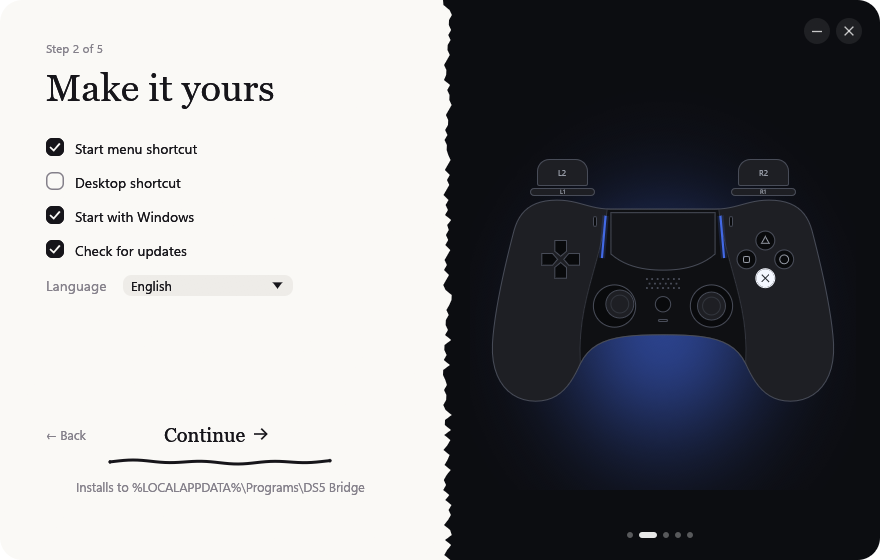
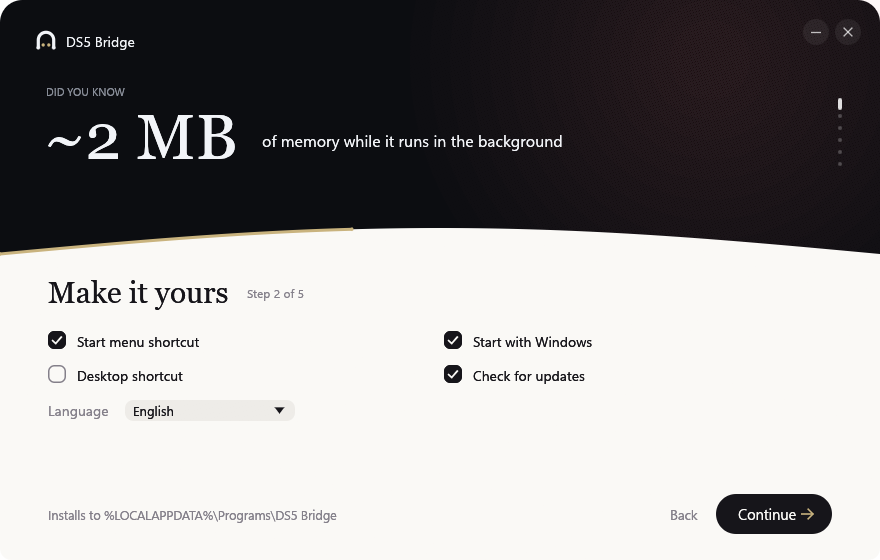
Installer redesign: fact slides on a dark stage, arched sheet with step progress

diff --git a/src/gui.rs b/src/gui.rs
@@ -1148,8 +1148,7 @@ impl App {
 
 // ------------------------------------------------------------ installer ---
 //
-// A two-part card like a printed page: big serif title, the step's content and exactly one action
-// on the left; the controller on its blue halo on the right; a torn paper edge in between.
+// Dark stage with facts about the app on top, a light sheet with an arched top edge below.
 
 const PAPER: Color32 = Color32::from_rgb(250, 249, 246);
 const PAPER_INK: Color32 = Color32::from_rgb(22, 21, 26);
@@ -1185,6 +1184,18 @@ fn paper_check(ui: &mut egui::Ui, on: &mut bool, label: &str) -> Response {
     resp.on_hover_cursor(egui::CursorIcon::PointingHand)
 }
 
+/// Little true facts about the app for the installer's stage: (big value, caption).
+fn facts() -> [(&'static str, &'static str); 6] {
+    [
+        ("~2 MB", tr("of memory while it runs in the background")),
+        ("592 Hz", tr("reports per second over Bluetooth, measured")),
+        ("0 bytes", tr("of your data ever leave your PC")),
+        ("1 file", tr("is the whole app. No runtimes, no extra packages")),
+        ("8", tr("languages, from Deutsch to 日本語")),
+        ("Rust", tr("all the way down, talking straight to Windows")),
+    ]
+}
+
 impl App {
     fn go(&mut self, step: usize) {
         self.step = step.min(STEPS - 1);
@@ -1196,41 +1207,32 @@ impl App {
         if self.render_to.is_some() { 5.0 } else { self.step_at.elapsed().as_secs_f32() }
     }
 
+    /// Dark stage on top with rotating facts; a light sheet below whose top edge is an arch (the
+    /// logo's shape). A line along the arch shows how far through the steps you are.
     fn installer(&mut self, ui: &mut egui::Ui, full: Rect) {
         let p = ui.painter().clone();
         let drag = ui.interact(full, ui.scope_id().with("drag"), Sense::click_and_drag());
         if drag.drag_started() {
             ui.ctx().send_viewport_cmd(ViewportCommand::StartDrag);
         }
-        let mid = full.left() + full.width() * 0.5;
-        let left = Rect::from_min_max(full.min, pos2(mid, full.bottom()));
-        let right = Rect::from_min_max(pos2(mid, full.top()), full.max);
+        let now = if self.render_to.is_some() { 0.6 } else { self.launched.elapsed().as_secs_f32() };
+        let acc = accent();
 
-        // right: the controller, quietly pressing a button now and then
-        p.rect_filled(right, CornerRadius { ne: CARD_R, se: CARD_R, ..Default::default() }, SCENE);
-        let now = if self.render_to.is_some() { 0.3 } else { self.launched.elapsed().as_secs_f32() };
-        let mut demo = demo_status();
-        let presses = [A, 0, RB, 0, Y, 0, UP, 0, B, 0, X, 0];
-        demo.pad = Pad { buttons: presses[(now / 0.8) as usize % presses.len()], ..Pad::default() };
-        demo.pad.lx = 0.7 * (now * 1.2).cos();
-        demo.pad.ly = 0.7 * (now * 1.2).sin();
-        demo.pad.rt = if (now / 0.8) as usize % presses.len() == 9 { 210 } else { 0 };
-        crate::ps5::paint(&p, Rect::from_min_max(right.min + vec2(30.0, 70.0), right.max - vec2(24.0, 70.0)), &demo);
-        // step dots
-        let dots_w = (STEPS as f32 - 1.0) * 12.0 + 18.0;
-        let mut x = right.center().x - dots_w / 2.0;
-        for i in 0..STEPS {
-            let w = if i == self.step { 18.0 } else { 6.0 };
-            let r = Rect::from_min_size(pos2(x, right.bottom() - 28.0), vec2(w, 6.0));
-            p.rect_filled(r, 3.0, Color32::from_white_alpha(if i == self.step { 230 } else { 80 }));
-            x += w + 6.0;
+        // ---- stage
+        p.rect_filled(full, CARD_R, SCENE);
+        // a soft glow: many faint discs blend into a smooth falloff
+        for i in 0..14 {
+            p.circle_filled(pos2(full.right() - 170.0, full.top() + 60.0), 300.0 - i as f32 * 20.0, acc.gamma_multiply(0.008));
         }
-        // minimise / close as soft round buttons on the scene
+        // logo and name
+        mark(&p, pos2(full.left() + 46.0, full.top() + 40.0), 0.55, TEXT, acc, 9.0);
+        p.text(pos2(full.left() + 66.0, full.top() + 40.0), Align2::LEFT_CENTER, APP, FontId::proportional(14.0), TEXT);
+        // minimise / close
         for (i, is_close) in [(1.0, false), (0.0, true)] {
-            let c = pos2(right.right() - 31.0 - i * 32.0, right.top() + 31.0);
+            let c = pos2(full.right() - 32.0 - i * 32.0, full.top() + 32.0);
             let r = ui.interact(Rect::from_center_size(c, vec2(26.0, 26.0)), ui.scope_id().with(("w", is_close)), Sense::click());
-            p.circle_filled(c, 13.0, Color32::from_white_alpha(if r.hovered() { 50 } else { 20 }));
-            let st = Stroke::new(1.3, Color32::from_white_alpha(if r.hovered() { 255 } else { 190 }));
+            p.circle_filled(c, 13.0, Color32::from_white_alpha(if r.hovered() { 46 } else { 16 }));
+            let st = Stroke::new(1.3, Color32::from_white_alpha(if r.hovered() { 255 } else { 180 }));
             if is_close {
                 p.line_segment([c + vec2(-4.0, -4.0), c + vec2(4.0, 4.0)], st);
                 p.line_segment([c + vec2(-4.0, 4.0), c + vec2(4.0, -4.0)], st);
@@ -1241,29 +1243,54 @@ impl App {
                 ui.ctx().send_viewport_cmd(if is_close { ViewportCommand::Close } else { ViewportCommand::Minimized(true) });
             }
         }
-
-        // left: the paper, with a torn edge over the scene
-        p.rect_filled(left, CornerRadius { nw: CARD_R, sw: CARD_R, ..Default::default() }, PAPER);
-        let jag = |i: u32| {
-            let h = i.wrapping_mul(2_654_435_761).rotate_left(13).wrapping_mul(40_503);
-            3.0 + (h % 1000) as f32 / 1000.0 * 9.0
-        };
-        let step = 5.0;
-        let n = (full.height() / step) as u32 + 1;
-        for i in 0..n {
-            let (y0, y1) = (full.top() + i as f32 * step, (full.top() + (i + 1) as f32 * step).min(full.bottom()));
-            let pts = vec![pos2(mid - 1.0, y0), pos2(mid + jag(i), y0), pos2(mid + jag(i + 1), y1), pos2(mid - 1.0, y1)];
-            p.add(Shape::convex_polygon(pts, PAPER, Stroke::NONE));
+        // the fact slides: a new one every 3.2 s, sliding in from the right
+        let f = facts();
+        let slot = 3.2;
+        let idx = (now / slot) as usize % f.len();
+        let k = smooth((now % slot) / 0.45);
+        let (value, caption) = (tr(f[idx].0), f[idx].1);
+        let x = full.left() + 46.0 + 30.0 * (1.0 - k);
+        let ink = |c: Color32| c.gamma_multiply(k);
+        p.text(pos2(x, full.top() + 84.0), Align2::LEFT_TOP, tr("DID YOU KNOW"), FontId::proportional(11.0), ink(MUTED));
+        let big = p.layout_no_wrap(value.to_string(), serif(64.0), TEXT);
+        let big_w = big.size().x;
+        p.galley(pos2(x - 2.0, full.top() + 100.0), big, ink(TEXT));
+        let cap = p.layout(caption.to_string(), FontId::proportional(16.0), TEXT, 300.0);
+        let cap_h = cap.size().y;
+        p.galley(pos2(x + big_w + 22.0, full.top() + 140.0 - cap_h / 2.0), cap, ink(Color32::from_rgb(190, 188, 182)));
+        // slide markers on the right of the stage
+        for i in 0..f.len() {
+            let r = Rect::from_center_size(pos2(full.right() - 40.0, full.top() + 104.0 + i as f32 * 12.0), vec2(4.0, if i == idx { 12.0 } else { 4.0 }));
+            p.rect_filled(r, 2.0, Color32::from_white_alpha(if i == idx { 220 } else { 60 }));
         }
+        ui.ctx().request_repaint_after(Duration::from_millis(if self.render_to.is_some() { 1000 } else { 33 }));
 
-        // content slides in from the right on every step
-        let k = smooth(self.step_time() / 0.4);
-        let shift = 16.0 * (1.0 - k);
-        let area = Rect::from_min_max(left.min + vec2(46.0 + shift, 40.0), left.max - vec2(46.0 - shift, 30.0));
-        let top = Rect::from_min_max(area.min, pos2(area.right(), area.bottom() - 122.0));
-        let bottom = Rect::from_min_max(pos2(area.left(), area.bottom() - 112.0), area.max);
-        let mut c = ui.new_child(egui::UiBuilder::new().max_rect(top));
-        c.set_opacity(k);
+        // ---- sheet with an arched top edge, drawn as thin convex strips
+        let top = full.top() + 228.0;
+        let rise = 26.0;
+        let arch = |x: f32| top + rise * (1.0 - (std::f32::consts::PI * (x - full.left()) / full.width()).sin());
+        let n = 88;
+        let xs: Vec<f32> = (0..=n).map(|i| full.left() + full.width() * i as f32 / n as f32).collect();
+        for w in xs.windows(2) {
+            let (x0, x1) = (w[0], w[1]);
+            let bottom = full.bottom() - if x0 < full.left() + CARD_R as f32 || x1 > full.right() - CARD_R as f32 { CARD_R as f32 } else { 0.0 };
+            p.add(Shape::convex_polygon(vec![pos2(x0, arch(x0)), pos2(x1, arch(x1)), pos2(x1, bottom), pos2(x0, bottom)], PAPER, Stroke::NONE));
+        }
+        let base = Rect::from_min_max(pos2(full.left(), full.bottom() - CARD_R as f32 - 1.0), full.max);
+        p.rect_filled(base, CornerRadius { sw: CARD_R, se: CARD_R, ..Default::default() }, PAPER);
+        // progress along the arch: one fifth per step, the install step fills itself
+        let done = match self.step {
+            3 => (3.0 + smooth(self.step_time() / 1.1)) / STEPS as f32,
+            s => (s + 1) as f32 / STEPS as f32,
+        };
+        let edge: Vec<Pos2> = xs.iter().map(|&x| pos2(x, arch(x))).collect();
+        trace(&p, edge, Stroke::new(3.0, acc), done);
+
+        // ---- the step's content
+        let kk = smooth(self.step_time() / 0.35);
+        let area = Rect::from_min_max(pos2(full.left() + 48.0, top + rise + 22.0 + 10.0 * (1.0 - kk)), pos2(full.right() - 48.0, full.bottom() - 26.0));
+        let mut c = ui.new_child(egui::UiBuilder::new().max_rect(Rect::from_min_max(area.min, pos2(area.right(), area.bottom() - 56.0))));
+        c.set_opacity(kk);
         {
             let v = c.visuals_mut();
             v.override_text_color = Some(PAPER_INK);
@@ -1275,8 +1302,6 @@ impl App {
             v.widgets.hovered.fg_stroke = Stroke::new(1.0, PAPER_INK);
         }
         c.spacing_mut().item_spacing = vec2(8.0, 6.0);
-        c.label(RichText::new(trf("Step {} of {}", &[&(self.step + 1), &STEPS])).size(12.0).color(PAPER_MUTED));
-        c.add_space(4.0);
         let title = match self.step {
             0 => tr("Your DualSense, at home on Windows"),
             1 => tr("Make it yours"),
@@ -1284,27 +1309,39 @@ impl App {
             3 => tr("Setting things up"),
             _ => tr("Ready to play"),
         };
-        c.label(RichText::new(title).font(serif(38.0)).color(PAPER_INK));
-        c.add_space(18.0);
+        c.horizontal(|ui| {
+            ui.label(RichText::new(title).font(serif(30.0)).color(PAPER_INK));
+            ui.add_space(10.0);
+            ui.label(RichText::new(trf("Step {} of {}", &[&(self.step + 1), &STEPS])).size(12.0).color(PAPER_MUTED));
+        });
+        c.add_space(10.0);
 
-        let (mut action, mut note, mut back, mut progress) = (None, String::new(), false, 1.0);
+        let (mut action, mut note, mut back) = (None, String::new(), false);
         match self.step {
             0 => {
-                for line in [tr("USB and Bluetooth"), tr("Works in every game that supports Xbox controllers"), tr("Offline. No account. No telemetry.")] {
-                    c.horizontal(|ui| {
-                        let (r, _) = ui.allocate_exact_size(vec2(10.0, 20.0), Sense::hover());
-                        ui.painter().circle_filled(r.center(), 2.5, PAPER_MUTED);
-                        ui.label(RichText::new(line).size(14.0));
-                    });
-                }
+                c.columns(3, |cols| {
+                    for (col, (t, d)) in cols.iter_mut().zip([
+                        (tr("USB and Bluetooth"), tr("Cable or wireless, both just work.")),
+                        (tr("Every Xbox game"), tr("Games see a normal Xbox controller.")),
+                        (tr("Private"), tr("Offline. No account. No telemetry.")),
+                    ]) {
+                        egui::Frame::NONE.fill(PAPER_FIELD).corner_radius(14.0).inner_margin(14.0).show(col, |ui| {
+                            ui.set_width(ui.available_width());
+                            ui.label(RichText::new(t).size(14.5).color(PAPER_INK));
+                            ui.label(RichText::new(d).size(12.5).color(PAPER_MUTED));
+                        });
+                    }
+                });
                 action = Some(tr("Get started"));
                 note = tr("Free and open source. Nothing leaves your PC.").to_string();
             }
             1 => {
-                let labels = [tr("Start menu shortcut"), tr("Desktop shortcut"), tr("Start with Windows"), tr("Check for updates")];
-                for (i, t) in labels.into_iter().enumerate() {
-                    paper_check(&mut c, &mut self.opt[i], t);
-                }
+                c.columns(2, |cols| {
+                    let labels = [tr("Start menu shortcut"), tr("Desktop shortcut"), tr("Start with Windows"), tr("Check for updates")];
+                    for (i, t) in labels.into_iter().enumerate() {
+                        paper_check(&mut cols[i / 2], &mut self.opt[i], t);
+                    }
+                });
                 c.add_space(6.0);
                 c.horizontal(|ui| {
                     ui.label(RichText::new(tr("Language")).size(14.0).color(PAPER_MUTED));
@@ -1345,21 +1382,18 @@ impl App {
             }
             3 => {
                 let t = self.step_time();
-                progress = smooth(t / 1.1);
                 let failed = if let Inst::Failed(e) = &self.inst { Some(e.clone()) } else { None };
                 match failed {
                     Some(e) => {
                         c.label(RichText::new(trf("Installation failed: {}", &[&e])).size(13.5).color(Color32::from_rgb(190, 80, 60)));
                         action = Some(tr("Try again"));
-                        progress = 0.0;
                     }
                     None => {
                         let msg = if t < 0.4 { tr("Copying DS5 Bridge…") } else if t < 0.8 { tr("Creating shortcuts…") } else { tr("Almost done…") };
-                        c.label(RichText::new(msg).size(13.5).color(PAPER_MUTED));
+                        c.label(RichText::new(msg).size(14.0).color(PAPER_MUTED));
                         if t > 1.25 && self.render_to.is_none() {
                             self.go(4);
                         }
-                        ui.ctx().request_repaint();
                     }
                 }
             }
@@ -1370,23 +1404,22 @@ impl App {
             }
         }
 
-        // bottom: one action, a hand-drawn line (it draws itself as progress), a small note
-        let mut b = ui.new_child(egui::UiBuilder::new().max_rect(bottom));
-        b.set_opacity(k);
-        let cx = bottom.center().x;
-        let bp = b.painter().clone();
+        // ---- bottom row: note on the left, back + one filled pill on the right
+        let row = Rect::from_min_max(pos2(area.left(), area.bottom() - 40.0), area.max);
+        let mut right_x = row.right();
         if let Some(label) = action {
-            let g = bp.layout_no_wrap(label.to_string(), serif(20.0), PAPER_INK);
-            let w = g.size().x + 30.0;
-            let r = Rect::from_center_size(pos2(cx, bottom.top() + 16.0), vec2(w, 32.0));
-            let resp = b.interact(r, b.scope_id().with("go"), Sense::click()).on_hover_cursor(egui::CursorIcon::PointingHand);
-            let nudge = b.ctx().animate_bool(resp.id, resp.hovered()) * 3.0;
-            bp.galley(pos2(r.left(), r.center().y - g.size().y / 2.0), g, PAPER_INK);
-            let a = pos2(r.right() - 12.0 + nudge, r.center().y);
-            let st = Stroke::new(1.6, PAPER_INK);
-            bp.line_segment([a - vec2(9.0, 0.0), a + vec2(3.0, 0.0)], st);
-            bp.line_segment([a + vec2(3.0, 0.0), a + vec2(-2.0, -5.0)], st);
-            bp.line_segment([a + vec2(3.0, 0.0), a + vec2(-2.0, 5.0)], st);
+            let g = p.layout_no_wrap(label.to_string(), FontId::proportional(14.5), PAPER);
+            let r = Rect::from_min_max(pos2(row.right() - g.size().x - 58.0, row.top()), row.max);
+            let resp = ui.interact(r, ui.scope_id().with("go"), Sense::click()).on_hover_cursor(egui::CursorIcon::PointingHand);
+            let h = ui.ctx().animate_bool(resp.id, resp.hovered());
+            p.rect_filled(r, 20.0, mix(PAPER_INK, Color32::from_rgb(52, 50, 58), h).gamma_multiply(kk));
+            p.galley(pos2(r.left() + 22.0, r.center().y - g.size().y / 2.0), g, PAPER);
+            let a = pos2(r.right() - 22.0 + h * 3.0, r.center().y);
+            let st = Stroke::new(1.6, acc);
+            p.line_segment([a - vec2(9.0, 0.0), a + vec2(3.0, 0.0)], st);
+            p.line_segment([a + vec2(3.0, 0.0), a + vec2(-2.0, -5.0)], st);
+            p.line_segment([a + vec2(3.0, 0.0), a + vec2(-2.0, 5.0)], st);
+            right_x = r.left() - 18.0;
             if resp.clicked() {
                 sound::click();
                 match self.step {
@@ -1407,34 +1440,25 @@ impl App {
                     }
                     _ => {
                         let _ = std::process::Command::new(installer::installed_exe()).spawn();
-                        b.ctx().send_viewport_cmd(ViewportCommand::Close);
+                        ui.ctx().send_viewport_cmd(ViewportCommand::Close);
                     }
                 }
             }
         }
-        let line: Vec<Pos2> = (0..=48)
-            .map(|i| {
-                let x = -110.0 + i as f32 * 220.0 / 48.0;
-                pos2(cx + x, bottom.top() + 44.0 + (x * 0.09).sin() * 1.1 + (x * 0.031 + 1.0).sin() * 0.9)
-            })
-            .collect();
-        trace(&bp, line, Stroke::new(3.0, PAPER_INK), progress);
-        if !note.is_empty() {
-            let g = bp.layout(note, FontId::proportional(12.5), PAPER_MUTED, 300.0);
-            bp.galley(pos2(cx - g.size().x / 2.0, bottom.top() + 60.0), g, PAPER_MUTED);
-        }
         if back {
-            let r = Rect::from_min_size(pos2(area.left(), bottom.top() + 6.0), vec2(60.0, 20.0));
-            let resp = b.interact(r, b.scope_id().with("back"), Sense::click()).on_hover_cursor(egui::CursorIcon::PointingHand);
-            bp.text(r.left_center(), Align2::LEFT_CENTER, format!("← {}", tr("Back")), FontId::proportional(12.5), if resp.hovered() { PAPER_INK } else { PAPER_MUTED });
+            let g = p.layout_no_wrap(tr("Back").to_string(), FontId::proportional(13.5), PAPER_MUTED);
+            let r = Rect::from_min_max(pos2(right_x - g.size().x, row.top()), pos2(right_x, row.bottom()));
+            let resp = ui.interact(r, ui.scope_id().with("back"), Sense::click()).on_hover_cursor(egui::CursorIcon::PointingHand);
+            p.galley(pos2(r.left(), r.center().y - g.size().y / 2.0), g, if resp.hovered() { PAPER_INK } else { PAPER_MUTED });
+            right_x = r.left() - 18.0;
             if resp.clicked() {
                 sound::click();
                 self.go(self.step - 1);
             }
         }
-        if self.render_to.is_none() {
-            // keep the controller and the slide alive while the installer is open
-            ui.ctx().request_repaint_after(Duration::from_millis(33));
+        if !note.is_empty() {
+            let g = p.layout(note, FontId::proportional(12.5), PAPER_MUTED, (right_x - row.left()).min(380.0));
+            p.galley(pos2(row.left(), row.center().y - g.size().y / 2.0), g, PAPER_MUTED.gamma_multiply(kk));
         }
     }
 }

diff --git a/README.md b/README.md
@@ -35,7 +35,7 @@ the internet except to ask GitHub whether there is a new version (you can turn t
 - **Your colours:** six calm accent presets or any colour you pick.
 - **Lives in the tray.** Closing the window keeps the bridge running at about **2–3 MB of RAM**
   and **well under 1 % CPU**.
-- **A calm installer** (one step per page), plus updater and uninstaller. Per user, no admin rights.
+- **A calm installer** with little facts about the app, plus updater and uninstaller. Per user, no admin rights.
 - **Updates you can trust:** a new version is installed only if its SHA-256 matches the checksum
   published on GitHub.
 - **8 languages:** English, Deutsch, 日本語, 简体中文, 한국어, Tiếng Việt, Filipino, العربية.
